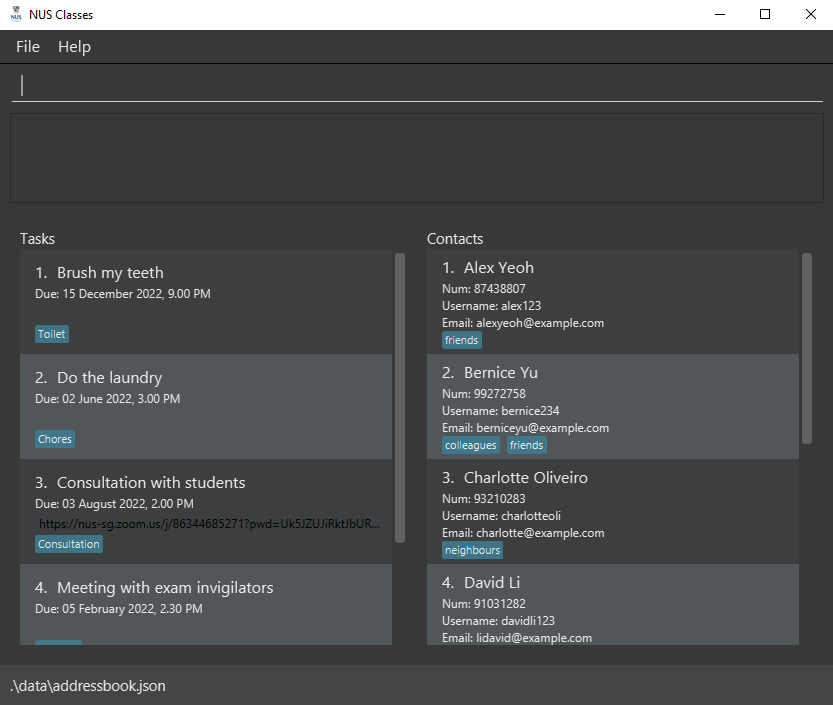
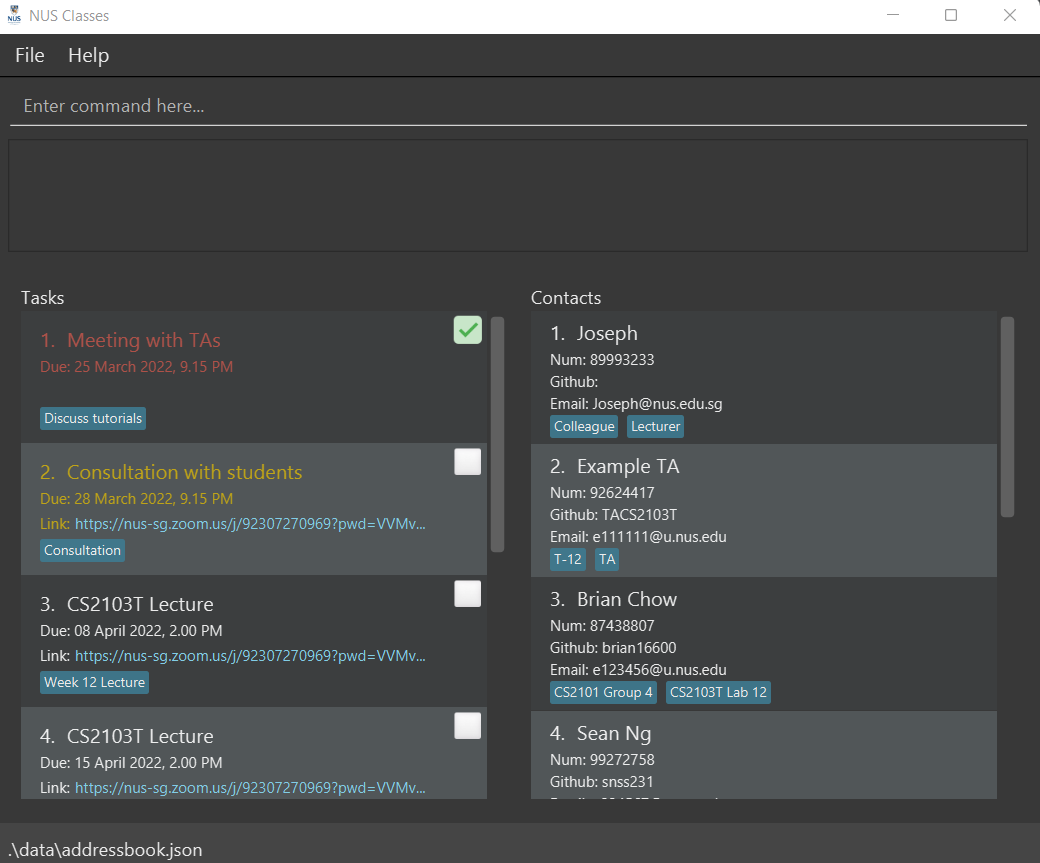
Updates to UG, Ui.png and SampleDataUtil.java

Changed region(s): [[0.0, 0.3121, 0.9988, 0.9362], [0.0, 0.0, 1.0, 0.156], [0.0, 0.9674, 0.2185, 0.9986]]

diff --git a/src/main/java/seedu/address/model/util/SampleDataUtil.java b/src/main/java/seedu/address/model/util/SampleDataUtil.java
@@ -67,21 +67,21 @@ public class SampleDataUtil {
 
     public static Task[] getSampleTasks() {
         return new Task[] {
+            new Task("Meeting with TAs", LocalDateTime.now().minusDays(2),
+                    getTagSet("Discuss tutorials"), new Link(""), true),
+            new Task("Consultation with students", LocalDateTime.now().plusDays(1),
+                    getTagSet("Consultation"),
+                    new Link("https://nus-sg.zoom.us/j/92307270969?pwd=VVMvNWFPWFpyVHRIcXR0VkJlNkg0dz09"),
+                    false),
             new Task("CS2103T Lecture",
                     LocalDateTime.of(2022, 4, 8, 14, 0),
                     getTagSet("Week 12 Lecture"),
                     new Link("https://nus-sg.zoom.us/j/92307270969?pwd=VVMvNWFPWFpyVHRIcXR0VkJlNkg0dz09"),
                     false),
-            new Task("Meeting with TAs", LocalDateTime.now().minusDays(2),
-                    getTagSet("Discuss tutorials"), new Link(""), false),
             new Task("CS2103T Lecture",
                     LocalDateTime.of(2022, 4, 15, 14, 0),
                     getTagSet("Week 13 Lecture"),
                     new Link("https://nus-sg.zoom.us/j/92307270969?pwd=VVMvNWFPWFpyVHRIcXR0VkJlNkg0dz09"), false),
-            new Task("Consultation with students", LocalDateTime.now().plusDays(1),
-                    getTagSet("Consultation"),
-                    new Link("https://nus-sg.zoom.us/j/92307270969?pwd=VVMvNWFPWFpyVHRIcXR0VkJlNkg0dz09"),
-                    false),
             new Task("Meeting with exam invigilators", LocalDateTime.now().plusWeeks(2) ,
                     getTagSet("Meeting"), new Link(""), false),
             new Task("CS2103T Lecture",

diff --git a/docs/UserGuide.md b/docs/UserGuide.md
@@ -3,7 +3,10 @@ layout: page
 title: User Guide
 ---
 
-NUS Classes is a **desktop app for managing contacts, optimized for use via a Command Line Interface** (CLI) while still having the benefits of a Graphical User Interface (GUI). If you can type fast, NUS Classes can get your contact management tasks done faster than traditional GUI apps.
+NUS Classes is a desktop app for NUS Computing professors to manage their tasks and contacts. It includes task management features such as 
+adding and editing tasks, finding tasks by date or name, tagging tasks with appropriate tags and marking them as done. It also includes contact management features
+such as finding contacts, assigning contacts to specific tasks and tagging contacts. NUS Classes is optimized for use via a Command Line Interface (CLI) while still having the benefits of a Graphical User Interface (GUI). 
+Using NUS Classes can get your contact management tasks done faster than traditional GUI apps, saving time on otherwise tedious administrative tasks.
 
 * Table of Contents
 * [Quick Start](https://github.com/AY2122S2-CS2103T-T12-4/tp/blob/master/docs/UserGuide.md#quick-start)
@@ -11,18 +14,19 @@ NUS Classes is a **desktop app for managing contacts, optimized for use via a Co
     * [Help](https://github.com/AY2122S2-CS2103T-T12-4/tp/blob/master/docs/UserGuide.md#viewing-help--help)
     * [Contact Features](https://github.com/AY2122S2-CS2103T-T12-4/tp/blob/master/docs/UserGuide.md#contact-features)
         * [Adding a person](https://github.com/AY2122S2-CS2103T-T12-4/tp/blob/master/docs/UserGuide.md#adding-a-person-addc)
-        * [Listing all persons](https://github.com/AY2122S2-CS2103T-T12-4/tp/blob/master/docs/UserGuide.md#listing-all-persons--list)
-        * [Editing a person](https://github.com/AY2122S2-CS2103T-T12-4/tp/blob/master/docs/UserGuide.md#editing-a-person--edit)
-        * [Locating persons by name](https://github.com/AY2122S2-CS2103T-T12-4/tp/blob/master/docs/UserGuide.md#locating-persons-by-name-find)
-        * [Deleting a person](https://github.com/AY2122S2-CS2103T-T12-4/tp/blob/master/docs/UserGuide.md#deleting-a-person--delete)
+        * [Listing all persons](https://github.com/AY2122S2-CS2103T-T12-4/tp/blob/master/docs/UserGuide.md#listing-all-persons--listc)
+        * [Editing a person](https://github.com/AY2122S2-CS2103T-T12-4/tp/blob/master/docs/UserGuide.md#editing-a-person--editc)
+        * [Locating persons by name](https://github.com/AY2122S2-CS2103T-T12-4/tp/blob/master/docs/UserGuide.md#locating-persons-by-name-findc)
+        * [Deleting a person](https://github.com/AY2122S2-CS2103T-T12-4/tp/blob/master/docs/UserGuide.md#deleting-a-person--deletec)
     * [Task Features](https://github.com/AY2122S2-CS2103T-T12-4/tp/blob/master/docs/UserGuide.md#task-features)
         * [Adding a task](https://github.com/AY2122S2-CS2103T-T12-4/tp/blob/master/docs/UserGuide.md#adding-a-task-addt)
+        * [Listing tasks](https://github.com/AY2122S2-CS2103T-T12-4/tp/blob/master/docs/UserGuide.md#listing-tasks-listt)
         * [Deleting a task](https://github.com/AY2122S2-CS2103T-T12-4/tp/blob/master/docs/UserGuide.md#deleting-a-task-deletet)
-        * [Updating a task](https://github.com/AY2122S2-CS2103T-T12-4/tp/blob/master/docs/UserGuide.md#Updating-a-task-updatet)
+        * [Updating a task](https://github.com/AY2122S2-CS2103T-T12-4/tp/blob/master/docs/UserGuide.md#Editing-a-task-editt)
         * [Assigning a contact to a task](https://github.com/AY2122S2-CS2103T-T12-4/tp/blob/master/docs/UserGuide.md#assigning-a-contact-to-a-task-assign)
         * [Unassigning a contact from a task](https://github.com/AY2122S2-CS2103T-T12-4/tp/blob/master/docs/UserGuide.md#unassigning-a-contact-from-a-task-unassign)
         * [Viewing contacts assigned to a task](https://github.com/AY2122S2-CS2103T-T12-4/tp/blob/master/docs/UserGuide.md#viewing-contacts-assigned-to-a-task-view)
-        * [Filtering tasks by name](https://github.com/AY2122S2-CS2103T-T12-4/tp/blob/master/docs/UserGuide.md#filtering-tasks-by-name-filter)
+        * [Finding tasks by name](https://github.com/AY2122S2-CS2103T-T12-4/tp/blob/master/docs/UserGuide.md#finding-tasks-by-name-findt)
     * [Other Features](https://github.com/AY2122S2-CS2103T-T12-4/tp/blob/master/docs/UserGuide.md#other-features)
         * [Clearing all entires](https://github.com/AY2122S2-CS2103T-T12-4/tp/blob/master/docs/UserGuide.md#clearing-all-entries--clear)
         * [Exiting the program](https://github.com/AY2122S2-CS2103T-T12-4/tp/blob/master/docs/UserGuide.md#exiting-the-program--exit)
@@ -49,14 +53,14 @@ NUS Classes is a **desktop app for managing contacts, optimized for use via a Co
 
     * **`list`** : Lists all contacts.
 
-    * **`add`**`n/John Doe p/98765432 e/johnd@example.com a/John street, block 123, #01-01` : Adds a contact named `John Doe` to the Address Book.
+    * **`add`**`n/John Doe p/98765432 e/johnd@example.com a/John street, block 123, #01-01` : Adds a contact named `John Doe` to NUS Classes.
 
     * **`delete`**`3` : Deletes the 3rd contact shown in the current list.
 
 
    * `remove` `tn/TA meeting cn/john`: Removes the TA meeting task from contact name john.
 
-   * **`clear`** : Deletes all contacts.
+   * **`clear`** : Clears all contacts from NUS Classes
 
    * **`exit`** : Exits the app.
 
@@ -118,13 +122,13 @@ You can add multiple tags to a contact. Just put t/ before every tag!
 
 ### Listing all persons : `listc`
 
-Shows a list of all persons in the address book.
+Shows a list of all persons in NUS Classes.
 
 Format: `listc`
 
 ### Editing a person : `editc`
 
-Edits an existing person in the address book.
+Edits an existing person in NUS Classes.
 
 Format: `editc INDEX [n/NAME] [p/PHONE] [e/EMAIL] [t/TAG] [u/GITUSERNAME]…`
 
@@ -159,7 +163,7 @@ Examples:
 
 ### Deleting a person : `deletec`
 
-Deletes the specified person from the address book.
+Deletes the specified person from NUS Classes.
 
 Format: `deletec INDEX`
 
@@ -168,23 +172,10 @@ Format: `deletec INDEX`
 * The index must be a positive integer 1, 2, 3, …
 
 Examples:
-* `listc` followed by `deletec 2` deletes the 2nd person in the address book.
+* `listc` followed by `deletec 2` deletes the 2nd person in NUS Classes.
 * `findc Betsy` followed by `deletec 1` deletes the 1st person in the results of the `findc` command.
 
 # Task Features
-### Listing tasks : `listt`
-
-Shows a list of all the tasks in the task list.
-
-Format: `listt all/`
-
-Shows a list of tasks that is marked as completed in the task list.
-
-Format: `listt c/`
-
-Shows a list of tasks that is not mark as completed in the task list.
-
-Format: `listt nc/`
 
 ### Adding a task: `addt`
 
@@ -213,6 +204,25 @@ There cannot be an already existing tag with the same name; tags must be unique.
 
 </div>
 
+### Listing tasks : `listt`
+
+Shows a list of all the tasks in the task list as per the specified filtering options. `listt` has the three folowing formats:
+
+Format: `listt all/`
+
+Shows a list of tasks that is marked as completed in the task list.
+
+Format: `listt c/`
+
+Shows a list of tasks that is not mark as completed in the task list.
+
+Format: `listt nc/`
+
+<div markdown="span" class="alert alert-warning">:bulb: **Tip**
+Good usage of `listt` will help in keeping track of tasks by status!
+
+</div>
+
 ### Deleting a task: `deletet`
 
 Deletes the specified task from the task list.
@@ -224,9 +234,8 @@ Format: `deletet 1`
 * The index must be a positive integer 1, 2, 3, …
 
 Examples:
-* `deletet 1` Deletes the task at index 1.
-* `deletet 2` Deletes the task at index 2.
-
+* `listt` followed by `deletet 1` lists out all the tasks in NUS Classes, then deletes the task at index 1.
+* `findt lecture` followed by `deletet 2` lists out all tasks with the keyword `lecture`, then deletes the task at index 2.
 
 ### Editing a task: `editt`
 Edits an existing task in the task list.
@@ -282,9 +291,9 @@ Format: `view INDEX`
 Examples:
 * `view 1` will display all contacts assigned to the 1st task in the task list.
 
-### Filtering tasks by name: `findt`
+### Finding tasks by name: `findt`
 
-Filters out tasks whose task names contain any of the given keywords.
+Finds tasks whose task names contain any of the given keywords.
 
 Format: `findt KEYWORD [MORE_KEYWORDS]`
 
@@ -331,7 +340,7 @@ Examples:
 
 ### Clearing all entries : `clear`
 
-Clears all entries from the address book.
+Clears all contacts from NUS Classes.
 
 Format: `clear`
 
@@ -343,14 +352,14 @@ Format: `exit`
 
 ### Saving the data
 
-AddressBook data are saved in the hard disk automatically after any command that changes the data. There is no need to save manually.
+NUS Classes data are saved in the hard disk automatically after any command that changes the data. There is no need to save manually.
 
 ### Editing the data file
 
-AddressBook data are saved as a JSON file `[JAR file location]/data/addressbook.json`. Advanced users are welcome to update data directly by editing that data file.
+NUS Classes data are saved as a JSON file `[JAR file location]/data/addressbook.json`. Advanced users are welcome to update data directly by editing that data file.
 
 <div markdown="span" class="alert alert-warning">:exclamation: **Caution:**
-If your changes to the data file makes its format invalid, AddressBook will discard all data and start with an empty data file at the next run.
+If your changes to the data file makes its format invalid, NUS Classes will discard all data and start with an empty data file at the next run.
 </div>
 
 ### Archiving data files `[coming in v2.0]`
@@ -362,7 +371,7 @@ _Details coming soon ..._
 ## FAQ
 
 **Q**: How do I transfer my data to another Computer?<br>
-**A**: Install the app in the other computer and overwrite the empty data file it creates with the file that contains the data of your previous AddressBook home folder.
+**A**: Install the app in the other computer and overwrite the empty data file it creates with the file that contains the data of your previous NUS Classes home folder.
 
 --------------------------------------------------------------------------------------------------------------------
 
@@ -371,12 +380,12 @@ _Details coming soon ..._
 | Action                                | Format, Examples                                                                                                                                           |
 |---------------------------------------|------------------------------------------------------------------------------------------------------------------------------------------------------------|
 | **Add Contact**                       | `addc n/NAME p/PHONE_NUMBER e/EMAIL u/GIT_USERNAME [t/TAG]…` <br> e.g., `add n/James Ho p/91234567 e/jamesho@example.com u/James123 t/friend t/colleague` |
-| **list**                              | `listc`                                                                                                                                                    |
+| **List Contacts**                     | `listc`                                                                                                                                                    |
 | **Edit Contact**                      | `editc INDEX [n/NAME] [p/PHONE_NUMBER] [e/EMAIL] [u/GITHUBUSERID] [t/TAG]…`<br>                                                                           |
  | **Find Contact**                      | `findc KEYWORD [MORE_KEYWORDS]...`                                                                                                                         |
 | **Delete**                            | `deletec INDEX`<br> e.g., `delete 3`                                                                                                                       |
 | **Add Task**                          | `addt tn/TASKNAME dt/DATETIME[, ENDDATETIME] [t/TAG]… [z/LINK] [r/INTERVAL RECURRENCE]`                                                                   |
-| **listt**                             | `listt`                                                                                                                                                     |
+| **List Tasks**                        | `listt`                                                                                                                                                     |
 | **Delete Task**                       | `deletet INDEX`                                                                                                                                            |
 | **Edit Task**                         | `editt INDEX [tn/TASKNAME] [dt/DATETIME, ENDDATETIME*] [t/TAG]`                                                                                            |
 | **Assign contact <br> To Task**       | `assign INDEX p/ PERSONINDEX`                                                                                                                              |

diff --git a/docs/index.md b/docs/index.md
@@ -8,10 +8,10 @@ title: AddressBook Level-3
 
 ![Ui](images/Ui.png)
 
-**AddressBook is a desktop application for managing your contact details.** While it has a GUI, most of the user interactions happen using a CLI (Command Line Interface).
+**NUS Classes is a desktop application for managing your contacts and tasks, with features such as marking tasks, assigning tasks to contacts and searching for tasks or contacts.** While it has a GUI, most of the user interactions happen using a CLI (Command Line Interface).
 
-* If you are interested in using AddressBook, head over to the [_Quick Start_ section of the **User Guide**](UserGuide.html#quick-start).
-* If you are interested about developing AddressBook, the [**Developer Guide**](DeveloperGuide.html) is a good place to start.
+* If you are interested in using NUS Classes, head over to the [_Quick Start_ section of the **User Guide**](UserGuide.html#quick-start).
+* If you are interested about developing NUS Classes, the [**Developer Guide**](DeveloperGuide.html) is a good place to start.
 
 a
 **Acknowledgements**
